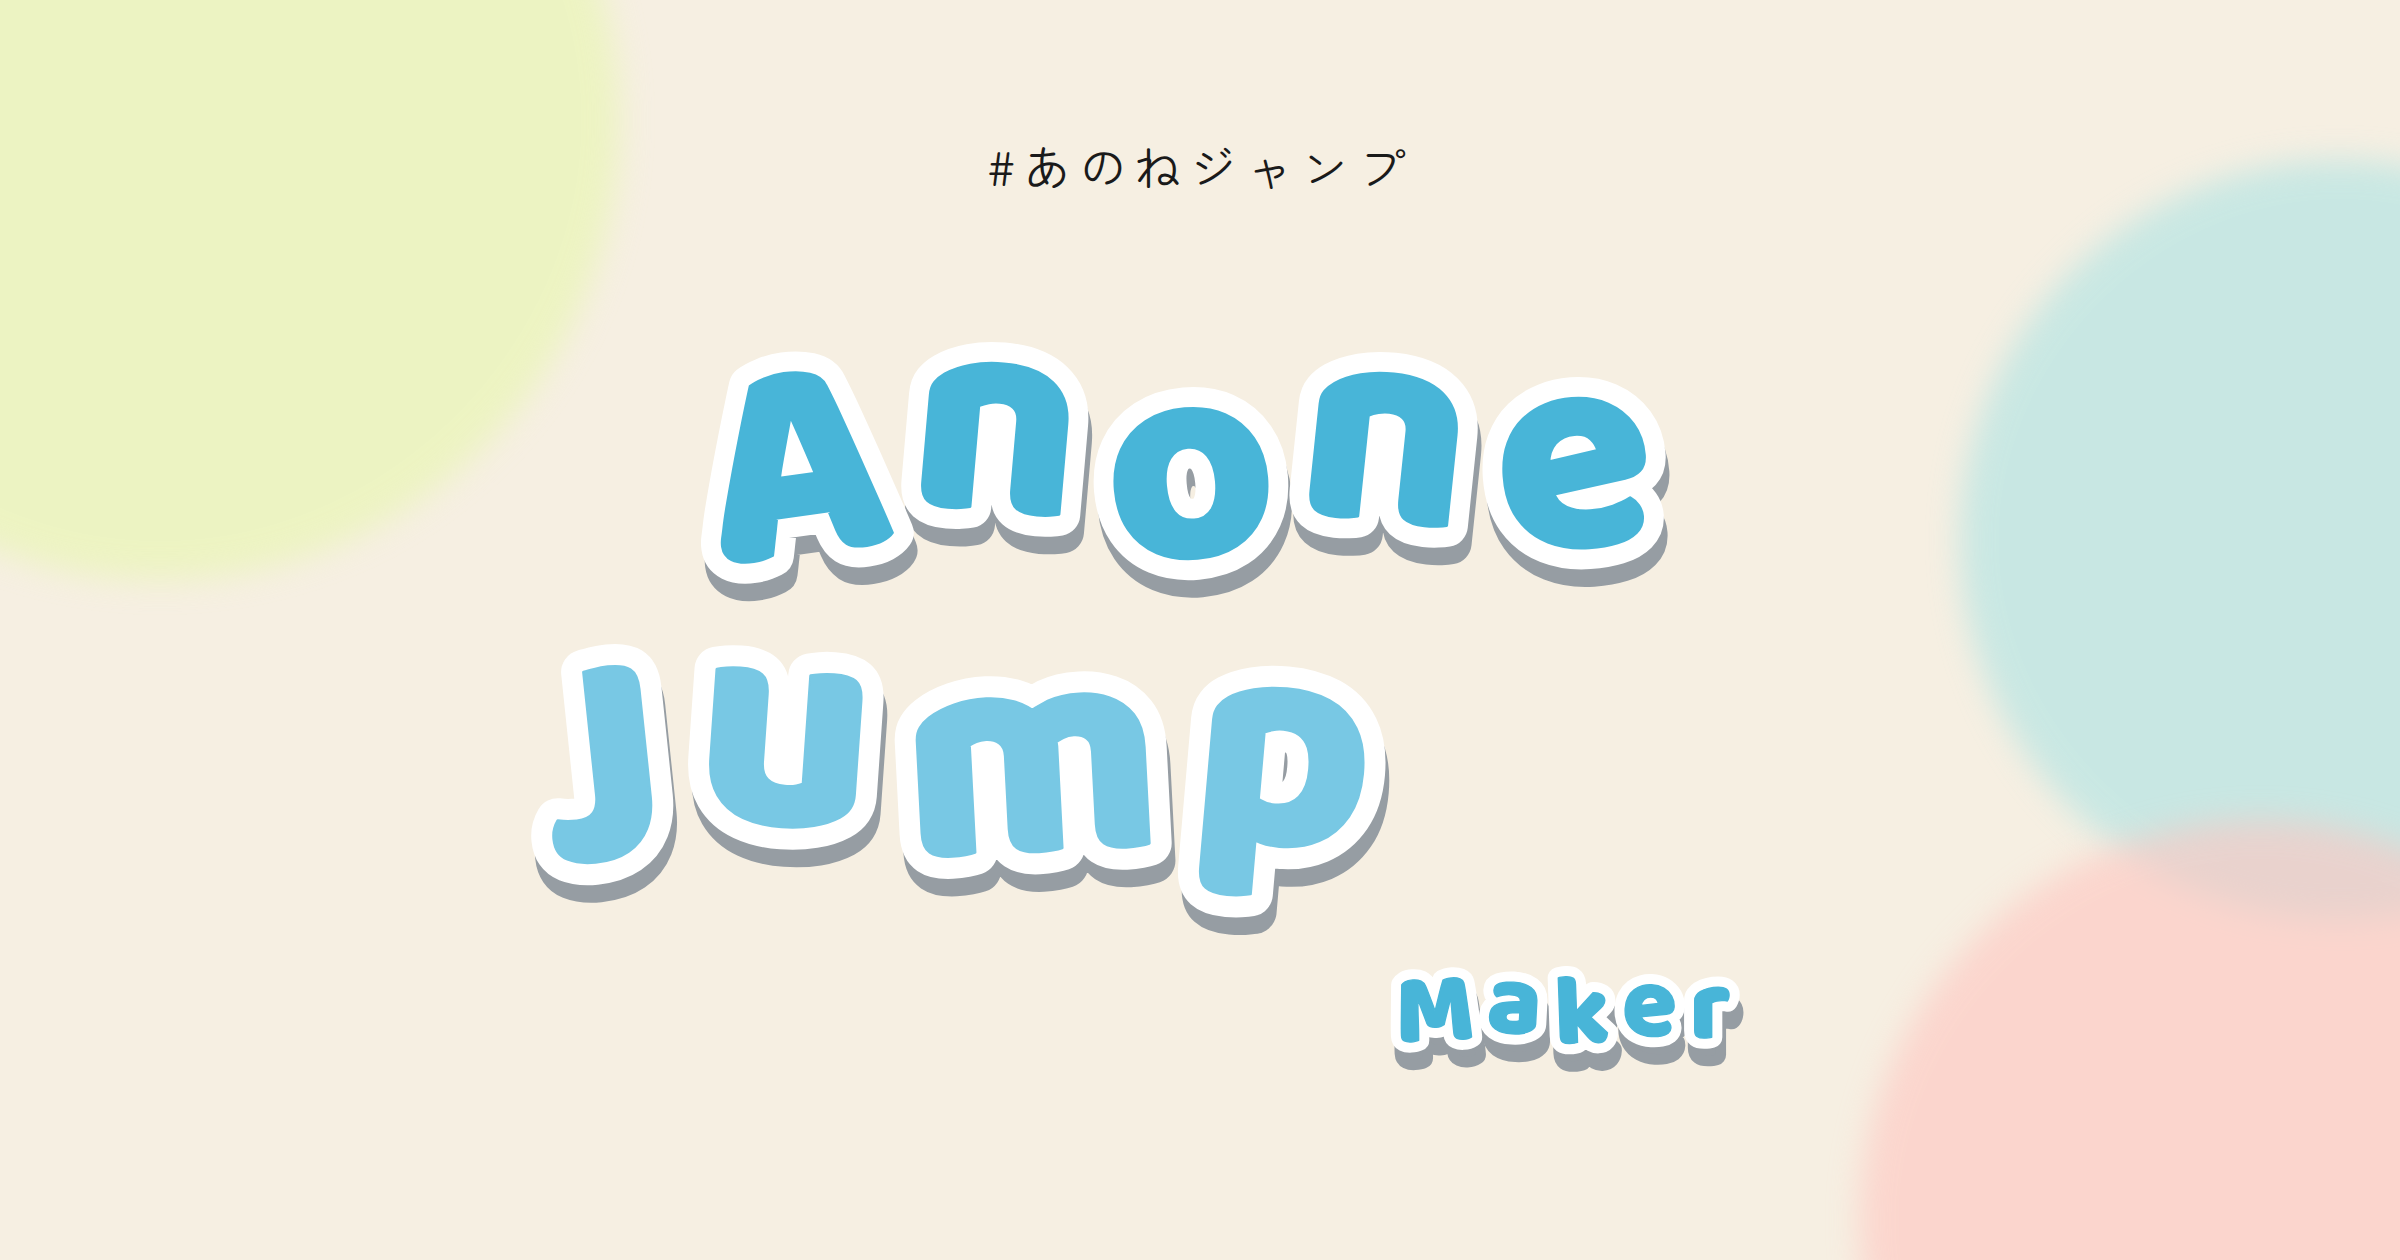
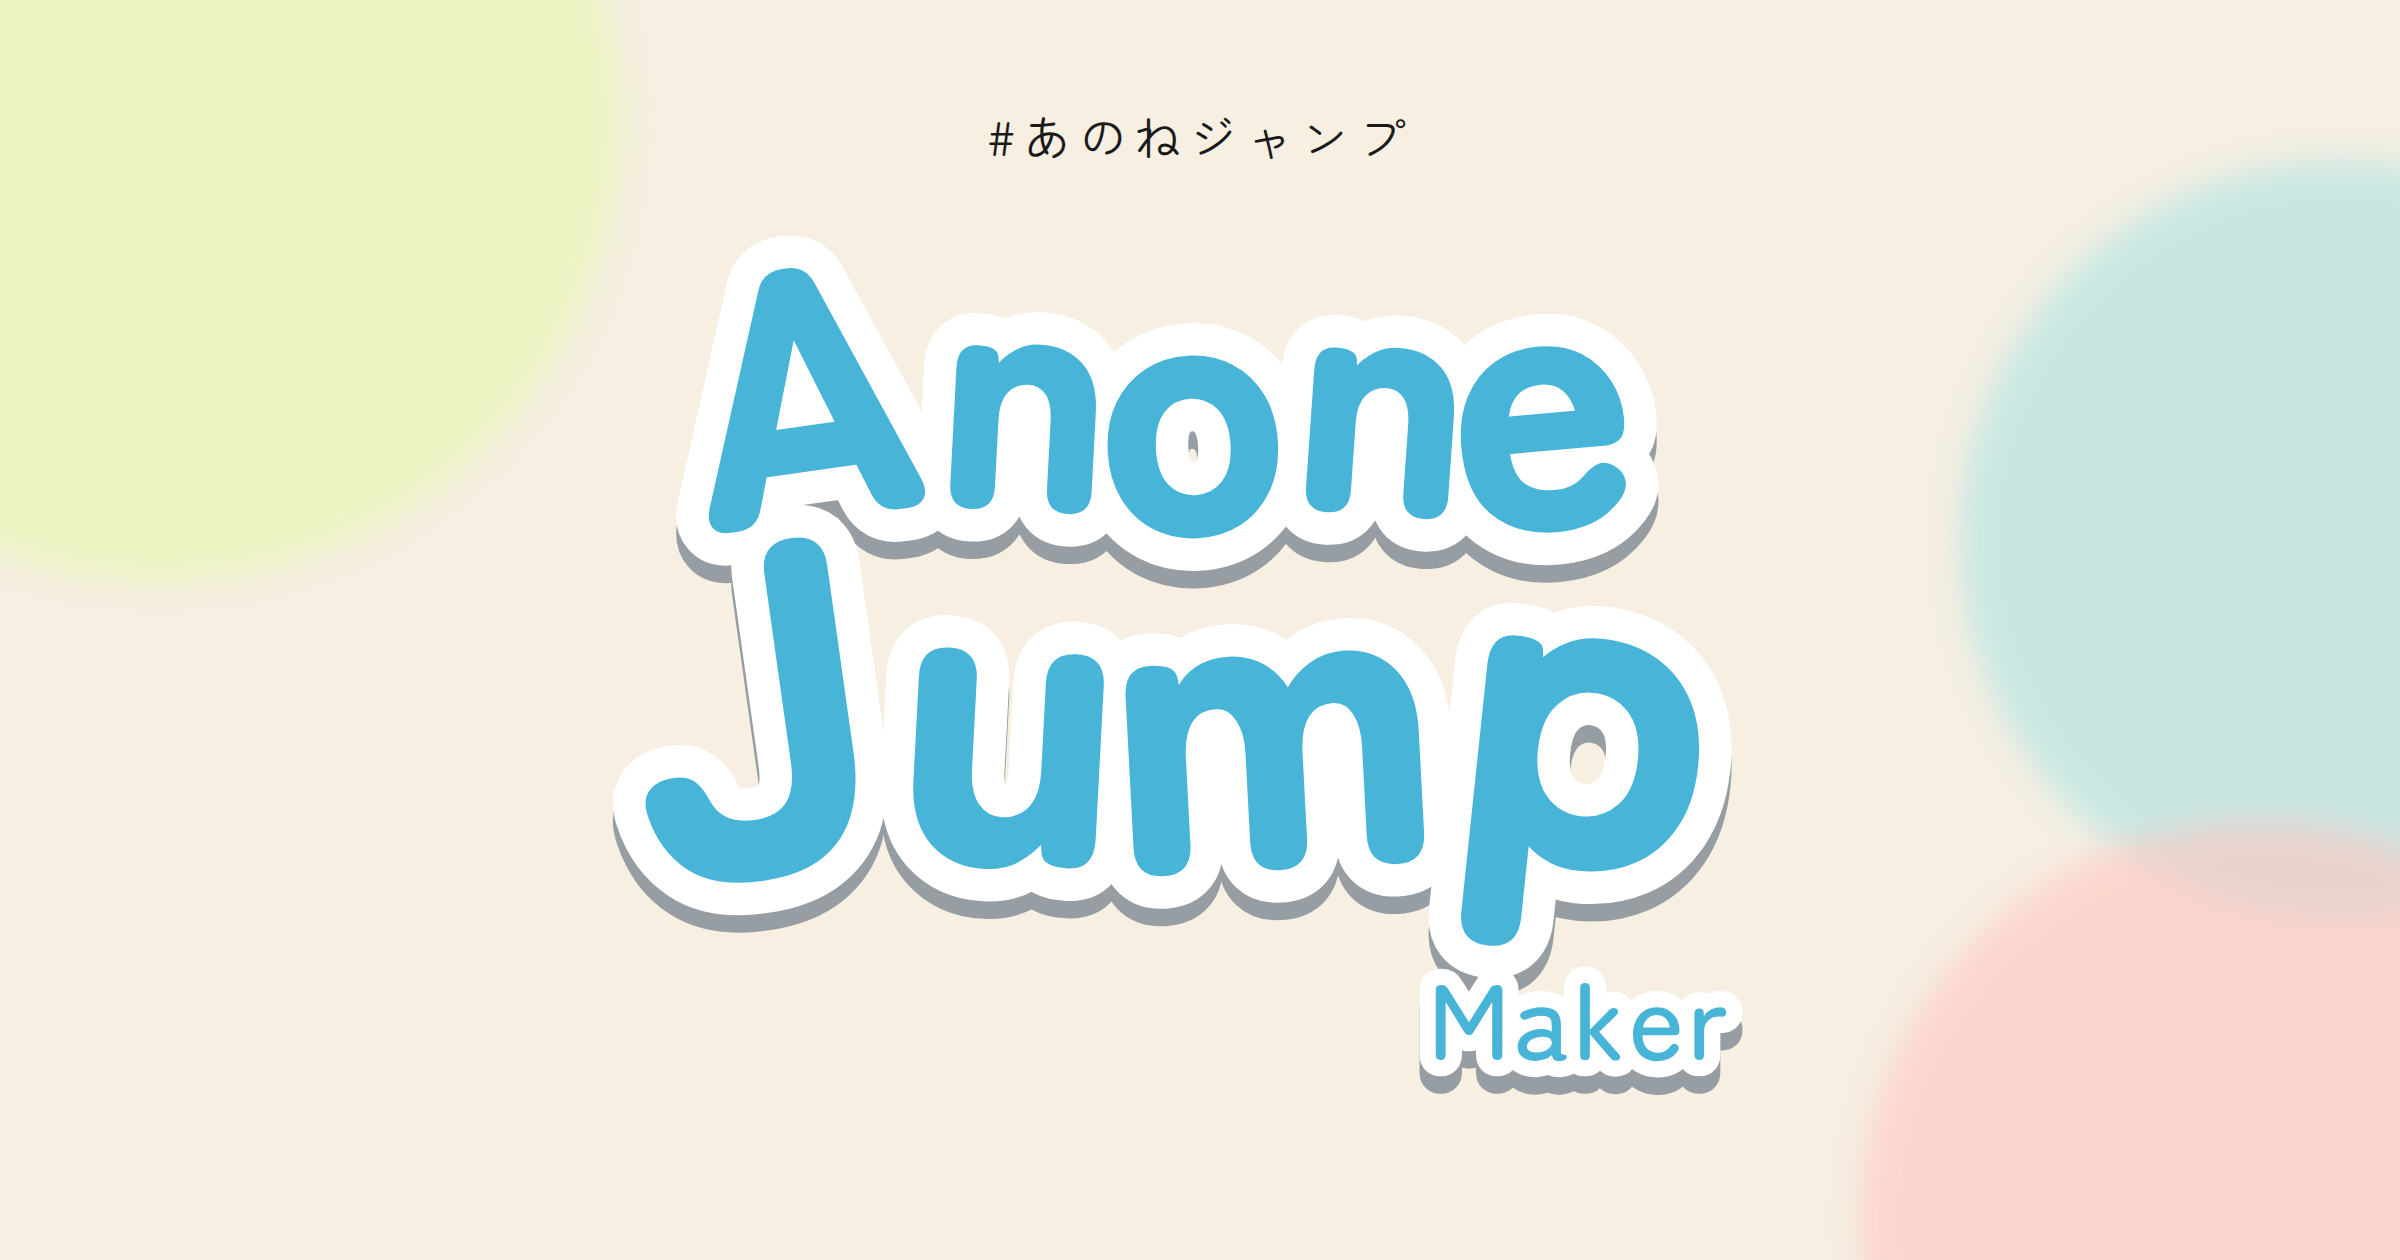
英語ロゴを提供SVGに差し替え、Jumpの塗りを濃い水色にする
形・影・白縁と Anone / Maker はそのまま。viewBox 640×390 にヒーローとOGPの表示比を合わせる。

Changed region(s): [[0.2188, 0.1857, 0.75, 0.8667], [0.4062, 0.0929, 0.5938, 0.1548]]

diff --git a/src/hero-logo.test.ts b/src/hero-logo.test.ts
@@ -3,9 +3,11 @@ import { describe, expect, it } from "vitest";
 import { LOCALES, t } from "./i18n.ts";
 import makerSrc from "./components/MakerApp.tsx?raw";
 import {
+  MAKER_LOGO_STACKED_EN_SIZE,
   MAKER_LOGO_STACKED_EN_SRC,
   MAKER_LOGO_STACKED_SIZE,
   MAKER_LOGO_STACKED_SRC,
+  makerLogoStackedSize,
   makerLogoStackedSrc,
 } from "./brand.ts";
 
@@ -41,6 +43,9 @@ describe("stacked maker hero logo", () => {
     expect(makerSrc).toContain('id="makerTitle"');
     expect(makerSrc).toContain("className=\"hero-logo\"");
     expect(makerSrc).toContain("makerLogoStackedSrc(locale)");
+    expect(makerSrc).toContain("makerLogoStackedSize(locale)");
+    expect(makerSrc).toContain("width={logoSize.width}");
+    expect(makerSrc).toContain("height={logoSize.height}");
     expect(makerSrc).toContain('alt={t(locale, "makerTitle")}');
     expect(makerSrc).not.toMatch(/<h1 id="makerTitle">\{t\(locale, "makerTitle"\)\}<\/h1>/);
     expect(makerSrc).toMatch(/<LanguageNav[\s\S]*id="makerTitle"[\s\S]*<JaLede\b/);
@@ -56,25 +61,31 @@ describe("stacked maker hero logo", () => {
     expect(stylesSrc).toMatch(/\.hero-logo\s*\{[^}]*max-width:\s*100%/);
     expect(stylesSrc).toMatch(/\.hero-logo\s*\{[^}]*height:\s*auto/);
     expect(stylesSrc).toMatch(/\.hero-logo\s*\{[^}]*aspect-ratio:\s*640\s*\/\s*365/);
+    expect(stylesSrc).toMatch(/\.hero-logo\[height="390"\]\s*\{[^}]*aspect-ratio:\s*640\s*\/\s*390/);
     expect(stylesSrc).toMatch(/\.hero-logo\s*\{[^}]*width:\s*min\(100%,\s*22rem\)/);
   });
 
   it("uses the Japanese stacked mark on ja and the English mark on en/ko/zh", () => {
     expect(MAKER_LOGO_STACKED_EN_SRC).toBe("/brand/anone-logo-stacked-en.svg");
+    expect(MAKER_LOGO_STACKED_EN_SIZE).toEqual({ width: 640, height: 390 });
     expect(makerLogoStackedSrc("ja")).toBe(MAKER_LOGO_STACKED_SRC);
     expect(makerLogoStackedSrc("en")).toBe(MAKER_LOGO_STACKED_EN_SRC);
     expect(makerLogoStackedSrc("ko")).toBe(MAKER_LOGO_STACKED_EN_SRC);
     expect(makerLogoStackedSrc("zh")).toBe(MAKER_LOGO_STACKED_EN_SRC);
+    expect(makerLogoStackedSize("ja")).toEqual(MAKER_LOGO_STACKED_SIZE);
+    expect(makerLogoStackedSize("en")).toEqual(MAKER_LOGO_STACKED_EN_SIZE);
     expect(existsSync(new URL("../public/brand/anone-logo-stacked-ko.svg", import.meta.url))).toBe(false);
     expect(existsSync(new URL("../public/brand/anone-logo-stacked-zh.svg", import.meta.url))).toBe(false);
-    expect(logoEnSrc).toContain('viewBox="0 0 640 365"');
+    expect(logoEnSrc).toContain('viewBox="0 0 640 390"');
+    expect(logoEnSrc).toContain('width="640"');
+    expect(logoEnSrc).toContain('height="390"');
     expect(logoEnSrc).toContain("<title id=\"title\">Anone Jump Maker</title>");
     expect(logoEnSrc).toContain('fill="#48B5D8"');
-    expect(logoEnSrc).toContain('fill="#78C8E4"');
     expect(logoEnSrc).toContain('fill="#969DA3"');
     expect(logoEnSrc).toContain('fill="#FFFFFF"');
     expect(logoEnSrc).not.toContain("あのね");
     expect(logoEnSrc).not.toContain("#A4DCF0");
+    expect(logoEnSrc).not.toContain("#78C8E4");
   });
 });
 
@@ -85,7 +96,9 @@ describe("stacked OGP wordmark", () => {
     expect(ogHtml).toContain('class="hero-logo"');
     expect(ogHtml).toContain(`width="${MAKER_LOGO_STACKED_SIZE.width}"`);
     expect(ogHtml).toContain(`height="${MAKER_LOGO_STACKED_SIZE.height}"`);
+    expect(ogHtml).toContain(`height: ${MAKER_LOGO_STACKED_EN_SIZE.height}`);
     expect(ogHtml).toMatch(/\.hero-logo\s*\{[^}]*aspect-ratio:\s*640\s*\/\s*365/);
+    expect(ogHtml).toMatch(/\.hero-logo\[height="390"\]\s*\{[^}]*aspect-ratio:\s*640\s*\/\s*390/);
     expect(ogHtml).not.toMatch(/<h1 id="ogTitle">[^<]*<\/h1>/);
     expect(ogHtml).not.toContain("document.getElementById(\"ogTitle\").textContent");
     expect(renderOg).toContain("/brand/anone-logo-stacked.svg");

diff --git a/scripts/og.html b/scripts/og.html
@@ -108,6 +108,10 @@
         height: auto;
         aspect-ratio: 640 / 365;
       }
+
+      .hero-logo[height="390"] {
+        aspect-ratio: 640 / 390;
+      }
     </style>
   </head>
   <body>
@@ -136,10 +140,10 @@
         zh: "あのね跳跃制作器",
       };
       const logos = {
-        ja: "/brand/anone-logo-stacked.svg",
-        en: "/brand/anone-logo-stacked-en.svg",
-        ko: "/brand/anone-logo-stacked-en.svg",
-        zh: "/brand/anone-logo-stacked-en.svg",
+        ja: { src: "/brand/anone-logo-stacked.svg", width: 640, height: 365 },
+        en: { src: "/brand/anone-logo-stacked-en.svg", width: 640, height: 390 },
+        ko: { src: "/brand/anone-logo-stacked-en.svg", width: 640, height: 390 },
+        zh: { src: "/brand/anone-logo-stacked-en.svg", width: 640, height: 390 },
       };
       const locale = new URLSearchParams(location.search).get("locale");
       const title = locale && titles[locale] ? titles[locale] : titles.ja;
@@ -147,7 +151,10 @@
       document.documentElement.lang = lang;
       const logo = document.querySelector(".hero-logo");
       if (logo instanceof HTMLImageElement) {
-        logo.src = logos[lang];
+        const mark = logos[lang];
+        logo.src = mark.src;
+        logo.width = mark.width;
+        logo.height = mark.height;
         logo.alt = title;
       }
     </script>

diff --git a/src/components/MakerApp.tsx b/src/components/MakerApp.tsx
@@ -12,7 +12,7 @@ import { reactionEmbedHtml } from "../reactions.ts";
 import { SHARE_TEXT } from "../share.ts";
 import { muteButtonHtml, PREVIEW_MUTED_DEFAULT, restartButtonHtml } from "../preview.ts";
 import { getPhotoThumbsState, subscribePhotoThumbs } from "../photo-thumbs-store.ts";
-import { MAKER_LOGO_STACKED_SIZE, makerLogoStackedSrc } from "../brand.ts";
+import { makerLogoStackedSize, makerLogoStackedSrc } from "../brand.ts";
 import { Button } from "@/components/ui/button";
 import { Label } from "@/components/ui/label";
 
@@ -73,6 +73,7 @@ export default function MakerApp({ initialView, locale, communityHtml = "" }: Ma
 
   const makerHidden = initialView !== "maker";
   const communityHidden = initialView !== "community";
+  const logoSize = makerLogoStackedSize(locale);
 
   return (
     <>
@@ -90,8 +91,8 @@ export default function MakerApp({ initialView, locale, communityHtml = "" }: Ma
               <img
                 className="hero-logo"
                 src={makerLogoStackedSrc(locale)}
-                width={MAKER_LOGO_STACKED_SIZE.width}
-                height={MAKER_LOGO_STACKED_SIZE.height}
+                width={logoSize.width}
+                height={logoSize.height}
                 alt={t(locale, "makerTitle")}
                 decoding="async"
               />

diff --git a/src/brand.ts b/src/brand.ts
@@ -1,7 +1,15 @@
 export const MAKER_LOGO_STACKED_SRC = "/brand/anone-logo-stacked.svg";
 export const MAKER_LOGO_STACKED_EN_SRC = "/brand/anone-logo-stacked-en.svg";
 export const MAKER_LOGO_STACKED_SIZE = { width: 640, height: 365 } as const;
+export const MAKER_LOGO_STACKED_EN_SIZE = { width: 640, height: 390 } as const;
 
 export function makerLogoStackedSrc(locale: "ja" | "en" | "ko" | "zh"): string {
   return locale === "ja" ? MAKER_LOGO_STACKED_SRC : MAKER_LOGO_STACKED_EN_SRC;
+}
+
+export function makerLogoStackedSize(locale: "ja" | "en" | "ko" | "zh"): {
+  width: 640;
+  height: 365 | 390;
+} {
+  return locale === "ja" ? MAKER_LOGO_STACKED_SIZE : MAKER_LOGO_STACKED_EN_SIZE;
 }

diff --git a/src/styles.css b/src/styles.css
@@ -216,6 +216,10 @@ body {
   margin-inline: auto;
 }
 
+.hero-logo[height="390"] {
+  aspect-ratio: 640 / 390;
+}
+
 /* applyView の heading.focus() は :focus だけ。Tab のときだけ輪郭を出す。 */
 .hero h1:focus:not(:focus-visible) {
   outline: none;
